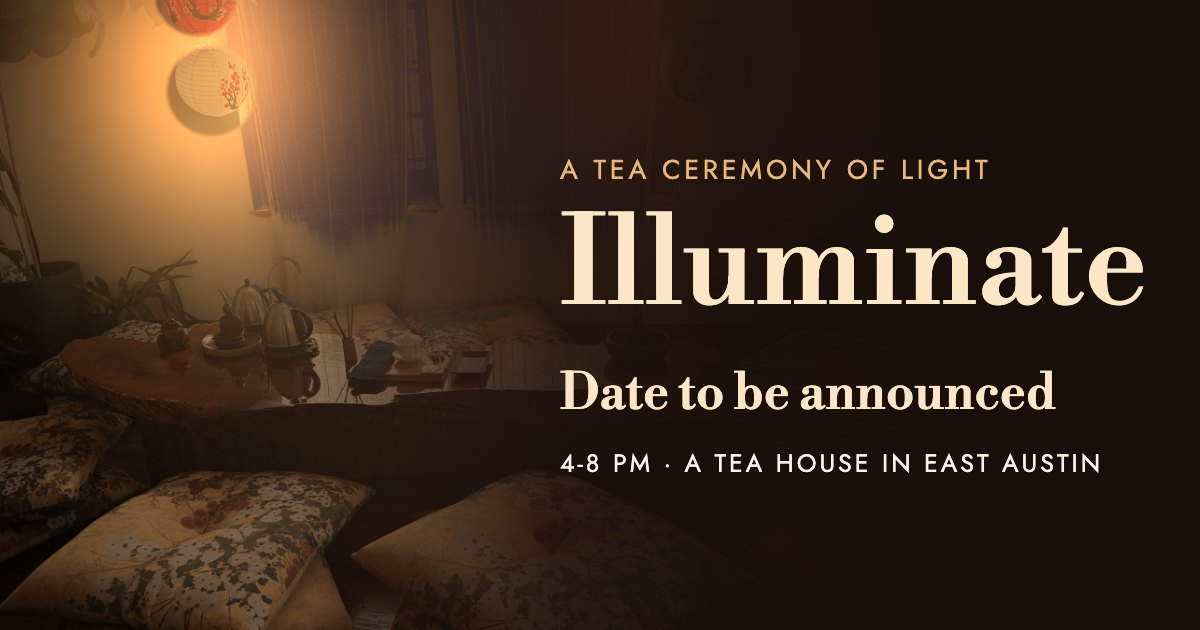
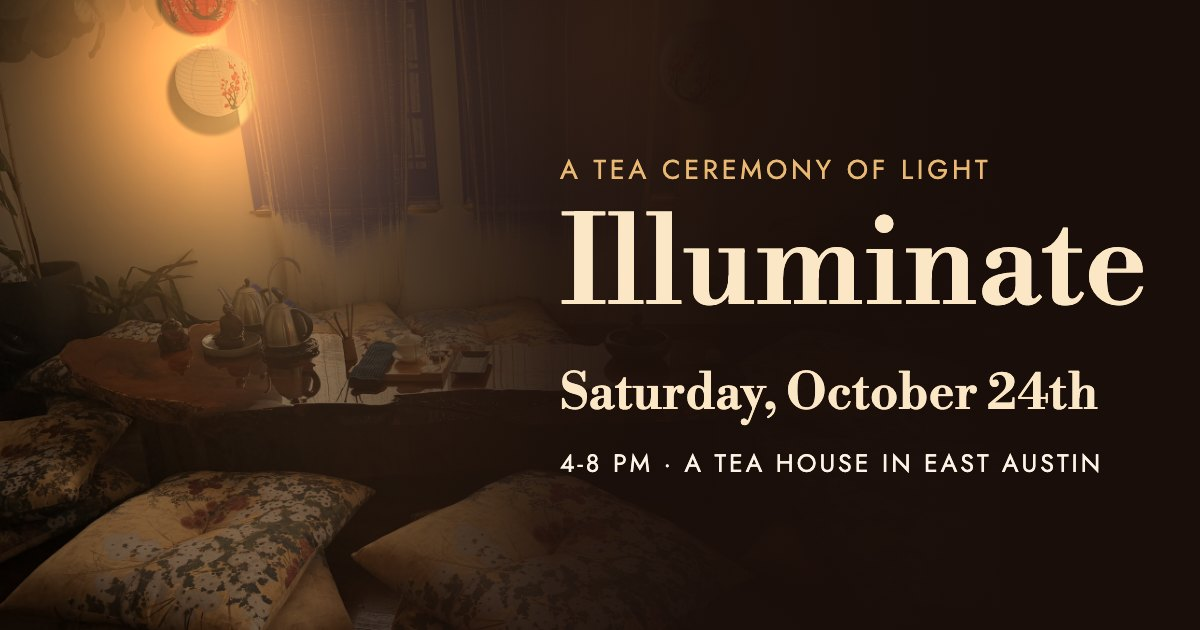
illuminate: Saturday October 24th on the card

Changed region(s): [[0.4625, 0.573, 0.925, 0.6635]]

diff --git a/illuminate/index.html b/illuminate/index.html
@@ -8,17 +8,17 @@
 <meta property="og:type" content="website">
 <meta property="og:site_name" content="The Oasis">
 <meta property="og:title" content="Illuminate · A Tea Ceremony of Light">
-<meta property="og:description" content="Rare tea, paper lanterns and good company at a tea house in East Austin. 4-8 PM, date to be announced. Hosted by Naraya and Max.">
+<meta property="og:description" content="Saturday, October 24th, 4-8 PM. Rare tea, paper lanterns and good company at a tea house in East Austin. Hosted by Naraya and Max.">
 <meta property="og:url" content="https://grateful.gg/illuminate/">
 <meta property="og:image" content="https://grateful.gg/illuminate/cover.jpg">
 <meta property="og:image:secure_url" content="https://grateful.gg/illuminate/cover.jpg">
 <meta property="og:image:type" content="image/jpeg">
 <meta property="og:image:width" content="1200">
 <meta property="og:image:height" content="630">
-<meta property="og:image:alt" content="Illuminate, a tea ceremony of light: a lantern-lit tea room in East Austin">
+<meta property="og:image:alt" content="Illuminate, a tea ceremony of light, Saturday October 24th in East Austin">
 <meta name="twitter:card" content="summary_large_image">
 <meta name="twitter:title" content="Illuminate · A Tea Ceremony of Light">
-<meta name="twitter:description" content="Rare tea, paper lanterns and good company at a tea house in East Austin. 4-8 PM, date to be announced. Hosted by Naraya and Max.">
+<meta name="twitter:description" content="Saturday, October 24th, 4-8 PM. Rare tea, paper lanterns and good company at a tea house in East Austin. Hosted by Naraya and Max.">
 <meta name="twitter:image" content="https://grateful.gg/illuminate/cover.jpg">
 
 <!-- Humans go to the real page; crawlers read the tags above first. The card
@@ -46,8 +46,8 @@
 </head>
 <body>
   <main class="card">
-    <img src="https://grateful.gg/illuminate/cover.jpg" alt="Illuminate, a tea ceremony of light: a lantern-lit tea room in East Austin" width="1200" height="630">
-    <div class="b"><h1>Illuminate · A Tea Ceremony of Light</h1><p>Rare tea, paper lanterns and good company at a tea house in East Austin. 4-8 PM, date to be announced. Hosted by Naraya and Max.</p>
+    <img src="https://grateful.gg/illuminate/cover.jpg" alt="Illuminate, a tea ceremony of light, Saturday October 24th in East Austin" width="1200" height="630">
+    <div class="b"><h1>Illuminate · A Tea Ceremony of Light</h1><p>Saturday, October 24th, 4-8 PM. Rare tea, paper lanterns and good company at a tea house in East Austin. Hosted by Naraya and Max.</p>
     <a class="btn" href="https://app.grateful.gg/illuminate">Open the event &rarr;</a></div>
   </main>
 </body>
